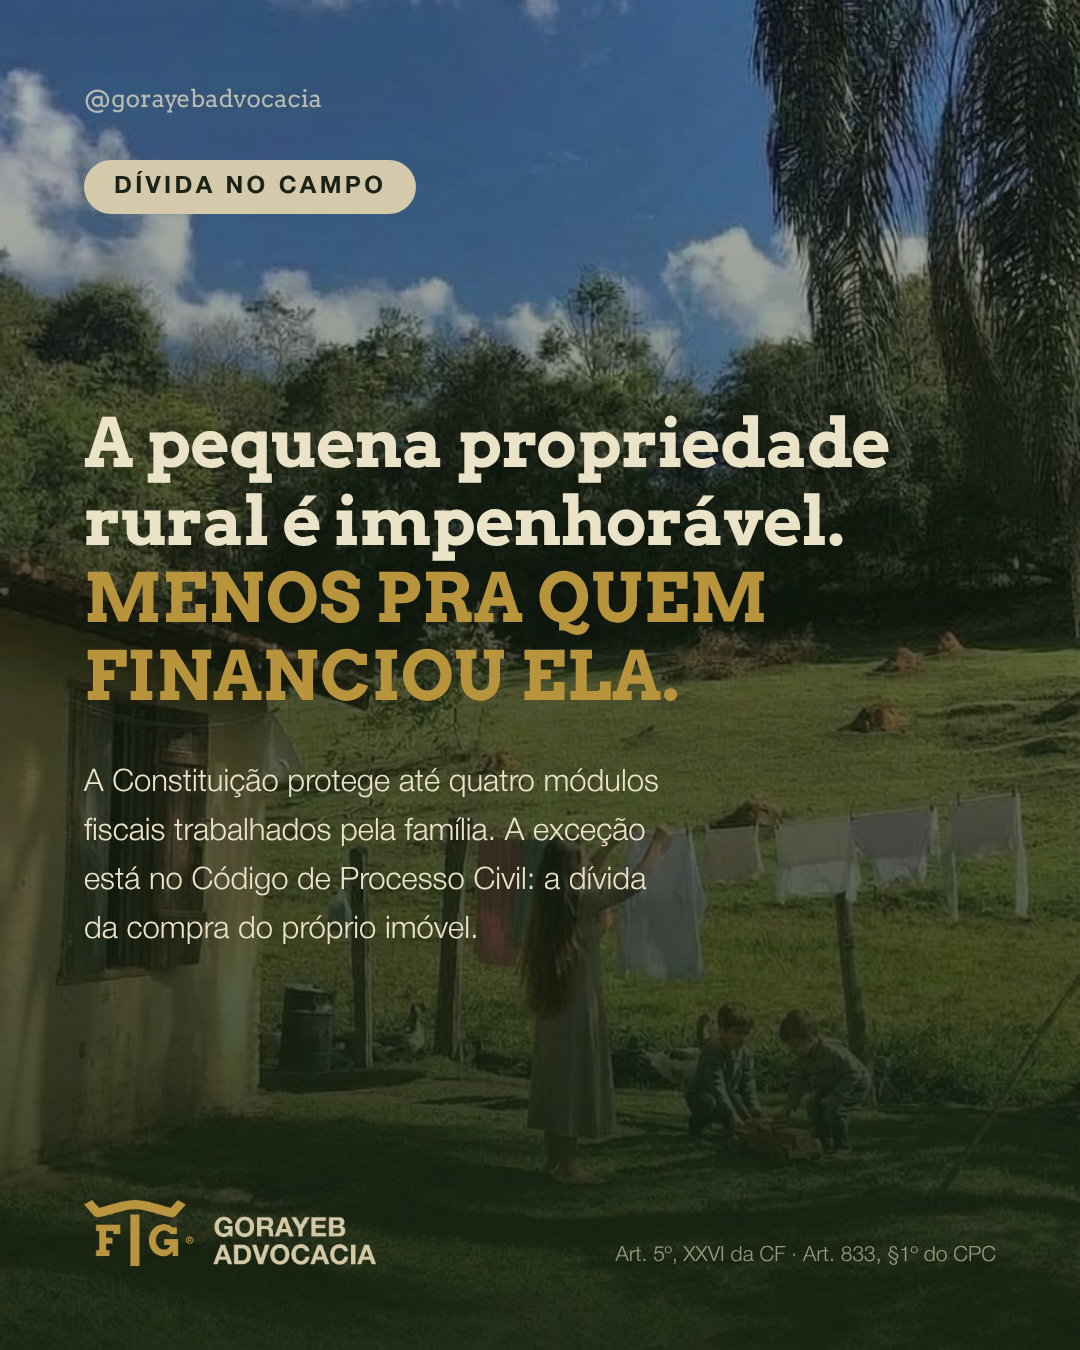
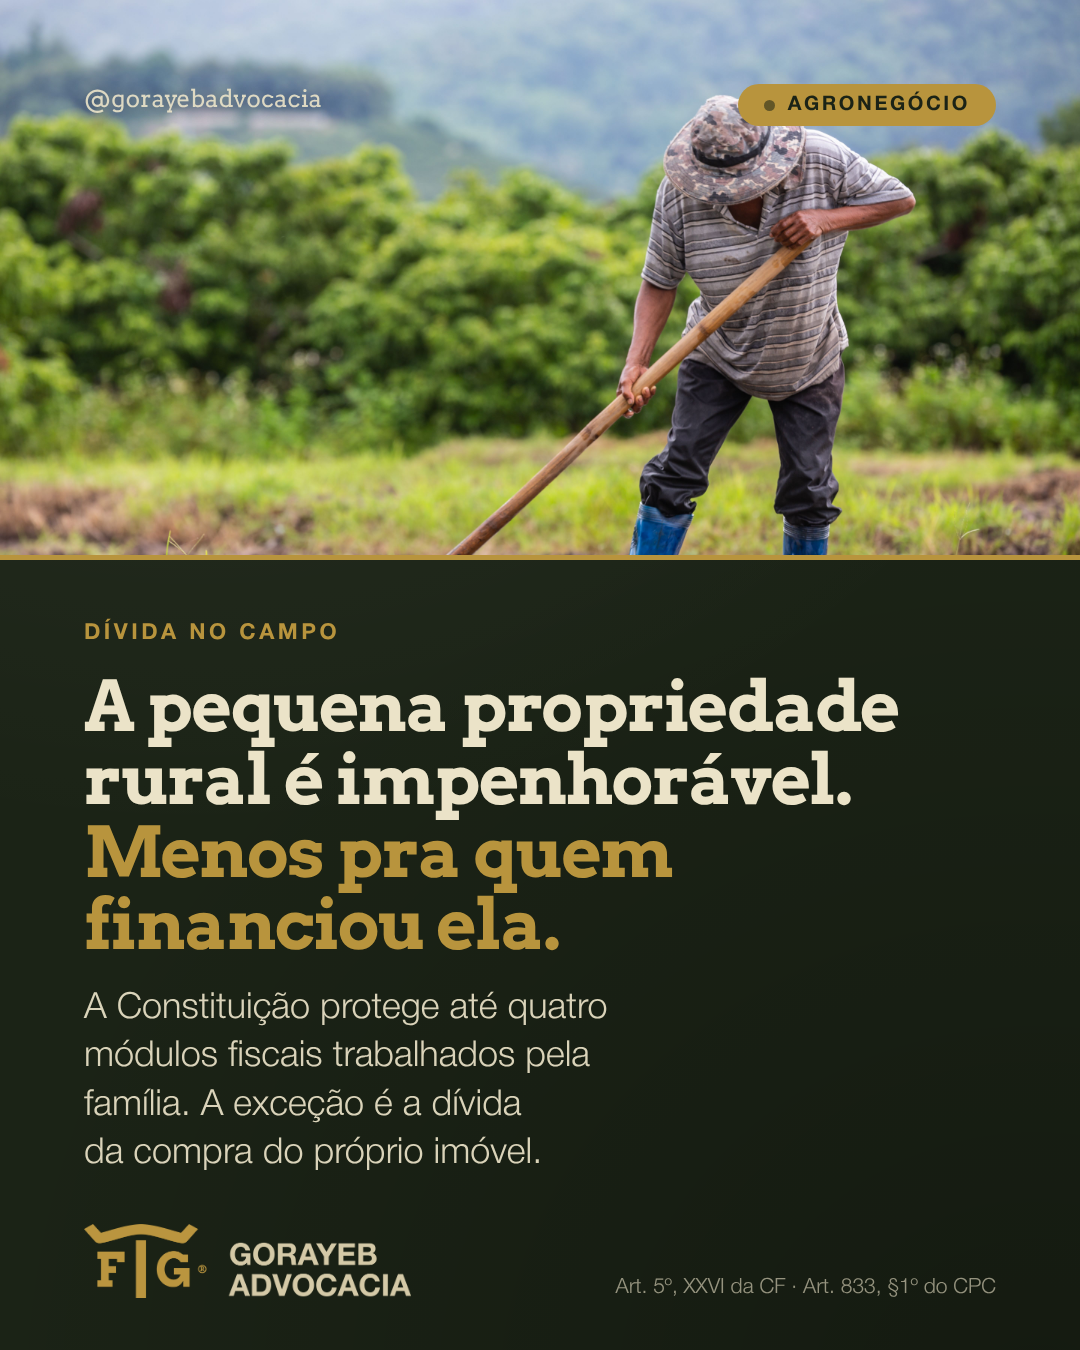
Estático de 30/10 no modelo de capa 2, com selo de área
Foto nova, de quem trabalha com a enxada, que é o requisito da peça.
A meia-folha ganhou altura de foto regulável, fonte no pé e dourado no título.

Claude-Session: https://claude.ai/code/session_01PNm9HeejNLCDTQ5J6fF2k9

diff --git a/docs/gorayeb/template/base.css b/docs/gorayeb/template/base.css
@@ -795,7 +795,7 @@
    CAPA 2 — MEIA-FOLHA: foto na metade de cima, chapa sólida embaixo.
    A divisão é reta, sem degradê, pra não repetir a capa de foto.
    ====================================================================== */
-.capa-faixa { padding: 0; display: grid; grid-template-rows: 620px 1fr; }
+.capa-faixa { padding: 0; display: grid; grid-template-rows: var(--alt-foto, 620px) 1fr; }
 .capa-faixa .meia-img { position: relative; overflow: hidden; }
 .capa-faixa .meia-img img { width: 100%; height: 100%; object-fit: cover; display: block; }
 .capa-faixa .meia-img .arroba {
@@ -815,6 +815,9 @@
 }
 .capa-faixa .titulo-capa { font-family: "Arvo", Georgia, serif; font-weight: 700; font-size: 86px; line-height: 1.04; letter-spacing: -.02em; }
 .capa-faixa .titulo-capa.menor { font-size: 70px; }
+.capa-faixa .titulo-capa strong { color: var(--dourado); font-weight: 700; }
+.capa-faixa .pe-capa { display: flex; align-items: flex-end; justify-content: space-between; gap: 30px; }
+.capa-faixa .pe-capa .fonte { text-align: right; flex: none; max-width: 46%; }
 .capa-faixa .sub-capa {
   font-family: "HelveticaNeue", Helvetica, Arial, sans-serif; font-weight: 300;
   font-size: 36px; line-height: 1.34; margin-top: 24px; max-width: 17em; opacity: .92;

diff --git a/docs/gorayeb/diario.md b/docs/gorayeb/diario.md
@@ -464,3 +464,24 @@ Tipos de slide, figuras e ícones estão na tabela do `README.md`.
   não promete prazo; conferir o processo na semana de 13/11.
 - Holding: ITCD de Minas em 5% hoje, com projeto de alíquota progressiva na Assembleia.
   Conferir na semana de 11/12.
+
+**26/10/2026**
+
+- **Quatro modelos de capa**, pedido do Victor: o feed estava ficando com todas as
+  capas iguais. Capa 1 foto (a de sempre), 2 meia-folha, 3 tipográfica sem foto e
+  4 clara, com fundo creme. Revezam, sem repetir o mesmo modelo em dois posts
+  seguidos. Estão em `formato-01.md` e demonstrados em `carrosseis/demo-capas.json`.
+- **Selo de área**, pedido da Dra. Elisa: marcador pequeno no alto à direita da capa
+  dizendo de que área é o conteúdo. Cor por área: dourado no agronegócio, areia no
+  previdenciário, bordô no empresarial, marrom no trabalhista. Campo `selo`.
+  Quando o selo entra, a etiqueta de assunto da capa 1 sai.
+- A capa de cada post dos 24 ficou escrita no plano, no PDF e no Excel, pra não
+  depender de lembrar na hora de revezar.
+- **Aba nova no Excel, Roteiros e legendas:** o roteiro e a legenda de cada post,
+  uma linha por tela e por parágrafo. O Excel só mostra mil e poucos caracteres por
+  célula, por isso não vai tudo num lugar só. Mesma fonte do PDF.
+- Victor mandou pra Dra. Elisa só o Excel, que é quem posta é a gente. O PDF
+  continua existindo pra quando for preciso apresentar.
+- **Estático de 30/10 refeito** no modelo de capa 2, com o selo. Foto nova, de quem
+  está na enxada, que é o requisito legal da peça: propriedade trabalhada pela
+  família. A anterior era a casa de roça, que não cabia na faixa horizontal.
